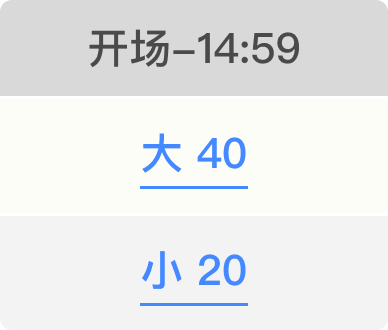
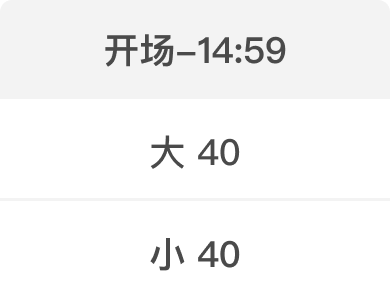
fix: master tag style bigData style longDragon style fix

diff --git a/apps/site-03/app/aiBigData/components/tutorial/handicapFirst.tsx b/apps/site-03/app/aiBigData/components/tutorial/handicapFirst.tsx
@@ -23,7 +23,7 @@ function Handicap({ isShowed }: { isShowed: Record<number, number> }) {
 
     return (
         <div className={style.images}>
-            <div className={`${style.tutorialTop} ${style.handicapTop}`}>
+            {/* <div className={`${style.tutorialTop} ${style.handicapTop}`}>
                 <Image
                     alt=""
                     className={style.image}
@@ -85,21 +85,22 @@ function Handicap({ isShowed }: { isShowed: Record<number, number> }) {
                         />
                     </motion.div>
                 </div>
-            </div>
-            {/* <div className={`${style.tutorialBottom} ${style.handicapBottom}`}>
+            </div> */}
+            <Image alt="" className={style.image} width={193} height={32} src={handicapTop.src} />
+            <div className={`${style.tutorialBottom} ${style.handicapBottom}`}>
                 <div className={style.table}>
                     <motion.div
                         animate={{ opacity: 1 }}
                         initial={isShowed[0] <= 0 ? { opacity: 0 } : false}
-                        transition={{ delay: 4, duration: 1 }}
+                        transition={{ delay: 0.5, duration: 1 }}
                     >
                         <Image
-                            width={114}
+                            width={113}
                             alt=""
                             className={`${style.image} ${
                                 isShowed[0] <= 0 && style.bottomAnimation
                             }`}
-                            height={66}
+                            height={99}
                             src={handicapBottomTable.src}
                         />
                     </motion.div>
@@ -107,7 +108,7 @@ function Handicap({ isShowed }: { isShowed: Record<number, number> }) {
                     <motion.div
                         animate={{ opacity: 1 }}
                         initial={isShowed[0] <= 0 ? { opacity: 0 } : false}
-                        transition={{ delay: 5, duration: 1 }}
+                        transition={{ delay: 1, duration: 1 }}
                     >
                         <HighlightHandIcon className={style.hightlightHand} />
                     </motion.div>
@@ -117,7 +118,7 @@ function Handicap({ isShowed }: { isShowed: Record<number, number> }) {
                     <motion.div
                         animate={{ opacity: 1 }}
                         initial={isShowed[0] <= 0 ? { opacity: 0 } : false}
-                        transition={{ delay: 5, duration: 1 }}
+                        transition={{ delay: 1.5, duration: 1 }}
                     >
                         <Image
                             width={122}
@@ -128,7 +129,7 @@ function Handicap({ isShowed }: { isShowed: Record<number, number> }) {
                         />
                     </motion.div>
                 </div>
-            </div> */}
+            </div>
         </div>
     );
 }

diff --git a/apps/site-03/app/aiBigData/components/tutorial/tutorial.tsx b/apps/site-03/app/aiBigData/components/tutorial/tutorial.tsx
@@ -14,6 +14,7 @@ import 'swiper/css';
 import 'swiper/css/navigation';
 import 'swiper/css/scrollbar';
 import 'swiper/css/effect-fade';
+import HandicapFirst from './handicapFirst';
 import Handicap from './handicap';
 import Minutes from './minutes';
 import Bodan from './bodan';
@@ -32,7 +33,8 @@ function Tutorial({
     const [isShowed, setIsShowed] = useState<Record<number, number>>({
         0: 0,
         1: 0,
-        2: 0
+        2: 0,
+        3: 0
     });
 
     const showedTutorial = useQueryFormStore.use.showedTutorial();
@@ -40,16 +42,20 @@ function Tutorial({
 
     const handleSlideChange = (swiper: SwiperClass) => {
         setCurrentIndex(swiper.activeIndex);
-        setDefaultPageIndex && setDefaultPageIndex(swiper.activeIndex);
-        setIsShowed(prevState => {
-            const currentCount = prevState[swiper.activeIndex] || 0;
-            return {
-                ...prevState,
-                [swiper.activeIndex]: currentCount + 1
-            };
-        });
+        if (swiper.activeIndex < 2) {
+            setDefaultPageIndex && setDefaultPageIndex(0);
+        } else {
+            setDefaultPageIndex && setDefaultPageIndex(swiper.activeIndex - 1);
+            setIsShowed(prevState => {
+                const currentCount = prevState[swiper.activeIndex] || 0;
+                return {
+                    ...prevState,
+                    [swiper.activeIndex]: currentCount + 1
+                };
+            });
+        }
 
-        if (swiper.activeIndex === 2) {
+        if (swiper.activeIndex === 3) {
             setBottomText('关闭');
         } else {
             setBottomText('跳过');
@@ -92,17 +98,22 @@ function Tutorial({
                 <SwiperSlide>
                     {/* 需要判斷index不然預設全部渲染就沒有動畫效果 */}
                     <div className={style.slide}>
-                        {currentIndex === 0 && <Handicap isShowed={isShowed} />}
+                        {currentIndex === 0 && <HandicapFirst isShowed={isShowed} />}
                     </div>
                 </SwiperSlide>
                 <SwiperSlide>
                     <div className={style.slide}>
-                        {currentIndex === 1 && <Minutes isShowed={isShowed} />}
+                        {currentIndex === 1 && <Handicap isShowed={isShowed} />}
                     </div>
                 </SwiperSlide>
                 <SwiperSlide>
                     <div className={style.slide}>
-                        {currentIndex === 2 && <Bodan isShowed={isShowed} />}
+                        {currentIndex === 2 && <Minutes isShowed={isShowed} />}
+                    </div>
+                </SwiperSlide>
+                <SwiperSlide>
+                    <div className={style.slide}>
+                        {currentIndex === 3 && <Bodan isShowed={isShowed} />}
                     </div>
                 </SwiperSlide>
             </Swiper>

diff --git a/apps/site-03/app/aiBigData/components/tutorial/tutorial.module.scss b/apps/site-03/app/aiBigData/components/tutorial/tutorial.module.scss
@@ -10,17 +10,24 @@
         object-fit: contain;
     }
 
+    .imageTitle {
+        object-fit: contain;
+        margin-left: 24px;
+    }
+
     .slide {
         height: 100dvh;
 
         .images {
-            display: flex;
-            flex-direction: column;
-            align-items: center;
-            gap: 56px;
-            justify-content: center;
+            position: relative;
+            top: 127px;
             padding: 0 30px;
             height: 100dvh;
+            display: flex;
+            flex-direction: column;
+            align-items: flex-start;
+            justify-content: flex-start;
+            gap: 30px;
         }
     }
 
@@ -174,7 +181,7 @@
             .highLightHand {
                 position: absolute;
                 left: 85px;
-                top: 168px;
+                top: 154px;
             }
         }
 

diff --git a/apps/site-03/app/(list)/handicapTips.tsx b/apps/site-03/app/(list)/handicapTips.tsx
@@ -98,13 +98,7 @@ function HandicapTips({ activeFilters }: { activeFilters: string[] }) {
                         src={teamLogo && teamLogo !== '0' ? teamLogo : defaultIcon}
                         width={20}
                     />
-                    <span
-                        className={`${style.text} ${isActiveRed ? style.redActive : ''} ${
-                            isActiveGreen ? style.greenActive : ''
-                        }`}
-                    >
-                        {teamChs}
-                    </span>
+                    <span className={style.text}>{teamChs}</span>
                 </div>
                 {isActiveRed || isActiveGreen ? <div className={tagStyle}>{oddsText}</div> : null}
             </div>

diff --git a/apps/site-03/app/master/list/article/components/articleCard/articleCard.module.scss b/apps/site-03/app/master/list/article/components/articleCard/articleCard.module.scss
@@ -13,15 +13,11 @@
         position: absolute;
         top: 0;
         left: 0;
-        width: 0px;
-        height: 0px;
-        border-top: 30px solid #e6effe;
-        border-right: 30px solid transparent;
 
         .unlocked {
             position: absolute;
-            top: -31px;
-            left: 1px;
+            top: 2px;
+            left: 2px;
         }
     }
 
@@ -81,7 +77,7 @@
                 color: #e95e6b;
                 font-size: 11px;
                 font-style: normal;
-                font-weight: 500;
+                font-weight: bold;
                 line-height: 18px;
             }
         }

diff --git a/apps/site-03/app/userInfo/myAnalysis/components/articleItem/articleItem.module.scss b/apps/site-03/app/userInfo/myAnalysis/components/articleItem/articleItem.module.scss
@@ -51,7 +51,6 @@
             flex-wrap: wrap;
             align-items: center;
             gap: 4px;
-            min-height: 20px;
 
             :global(.baseTag) {
                 margin-right: 0;
@@ -88,7 +87,7 @@
             color: #e95e6b;
             font-size: 11px;
             font-style: normal;
-            font-weight: 500;
+            font-weight: bold;
             line-height: 18px;
         }
     }

diff --git a/apps/site-03/app/master/list/article/components/articleCard/articleCard.tsx b/apps/site-03/app/master/list/article/components/articleCard/articleCard.tsx
@@ -189,7 +189,7 @@ function ArticleCard({ article }: { article: RecommendPost }) {
                             {article.tag.weekHitRateDisplay}
                             <i>%</i>
                         </span>
-                        <span className={style.hitName}>近十命中</span>
+                        <span className={style.hitName}>命中率</span>
                     </div>
                 </div>
 

diff --git a/apps/site-03/app/aiBigData/components/tutorial/bodan.tsx b/apps/site-03/app/aiBigData/components/tutorial/bodan.tsx
@@ -18,7 +18,7 @@ function Bodan({ isShowed }: { isShowed: Record<number, number> }) {
                         height={58}
                         width={154}
                         src={bodanDescription1.src}
-                        className={style.image}
+                        className={`${style.image} ${style.imageTitle}`}
                     />
                     <Image
                         alt=""

diff --git a/apps/site-03/app/(list)/handicapTip.module.scss b/apps/site-03/app/(list)/handicapTip.module.scss
@@ -73,15 +73,7 @@
 
                 .text {
                     font-size: 14px;
-                    color: #222;
-
-                    &.redActive {
-                        color: #f85640;
-                    }
-
-                    &.greenActive {
-                        color: #009a63;
-                    }
+                    color: #4a4a4a;
                 }
             }
 

diff --git a/apps/site-03/app/aiBigData/analysisResult/layout.module.scss b/apps/site-03/app/aiBigData/analysisResult/layout.module.scss
@@ -43,7 +43,7 @@
                     .tag {
                         color: #fff;
                         border-radius: 16px;
-                        background: rgba(255, 255, 255, 0.15);
+                        background: rgba(255, 255, 255, 0.2);
                         font-size: 12px;
                         font-weight: 600;
                         padding: 2px 6px;

diff --git a/apps/site-03/app/master/masterAvatar/[masterId]/info.module.scss b/apps/site-03/app/master/masterAvatar/[masterId]/info.module.scss
@@ -32,7 +32,6 @@
                     display: flex;
                     flex-wrap: wrap;
                     gap: 4px;
-                    min-height: 18px;
 
                     :global(.baseTag) {
                         margin-right: 0;

diff --git a/apps/site-03/app/master/articleDetail/[articleId]/info.module.scss b/apps/site-03/app/master/articleDetail/[articleId]/info.module.scss
@@ -35,7 +35,6 @@
                 flex-wrap: wrap;
                 align-items: center;
                 gap: 4px;
-                min-height: 20px;
 
                 :global(.baseTag) {
                     margin-right: 0;
